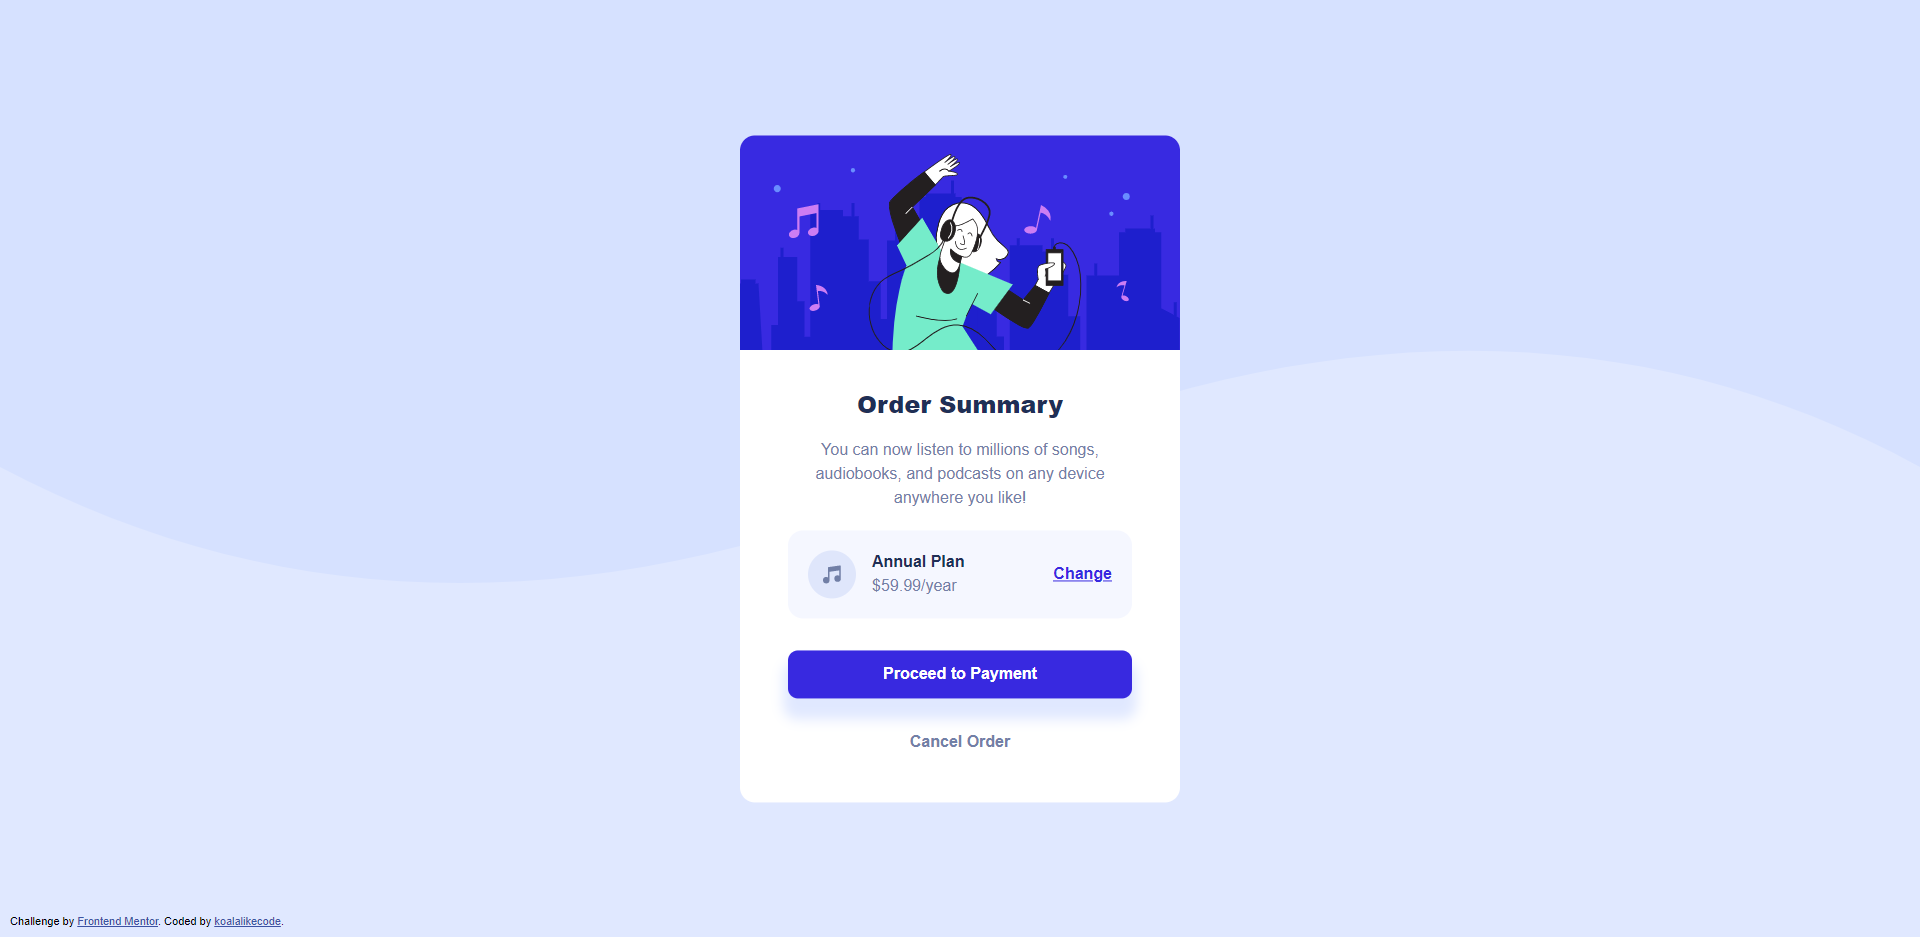
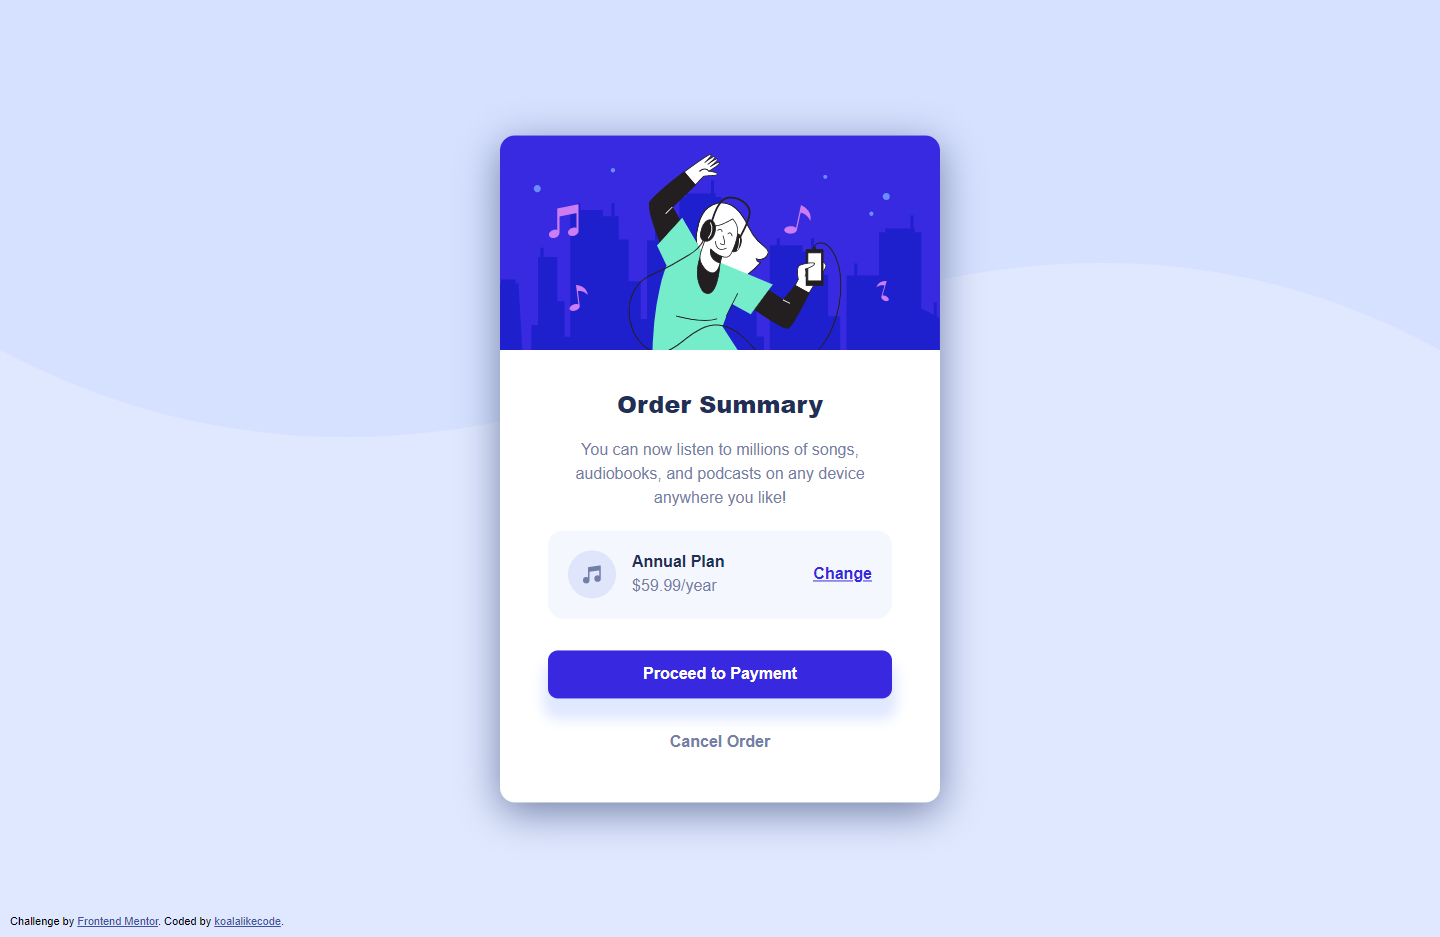
change h2 to h1 and h4 to h2, shadow for container and p changed to a

Changed region(s): [[0.3125, 0.1238, 0.6875, 0.8975], [0.0, 0.9594, 0.1875, 0.9904], [0.4688, 0.7737, 0.5312, 0.8047]]

diff --git a/style.css b/style.css
@@ -35,6 +35,7 @@ body {
   transform: translate(-50%, -50%);
   background-color: var(--White);
   border-radius: 15px;
+  box-shadow: 0px 10px 40px var(--Desaturated-blue);
 }
 
 .container .banner {
@@ -48,11 +49,12 @@ body {
   text-align: center;
   line-height: 1.5;
 }
-h2,
-h4 {
+h1,
+h2 {
   color: var(--Dark-blue);
 }
-.content h2 {
+.content h1 {
+  font-size: 24px;
   font-weight: 900;
   padding-bottom: 16px;
 }
@@ -83,6 +85,11 @@ p {
   flex-grow: 1;
 }
 
+.user-choice .price h2{
+  font-size: 16px;
+  font-weight: 700;
+}
+
 .user-choice .change a {
   color: var(--Bright-blue);
   font-weight: 700;
@@ -101,11 +108,13 @@ p {
 }
 
 .user-confirm .agree-button{
+  display: block;
   padding: 12px 0;
   background-color: var(--Bright-blue);
   color:var(--White);
   border-radius: 10px;
   box-shadow: 0 16px 12px 5px var(--Pale-blue);
+  text-decoration: none;
 }
 
 .user-confirm .agree-button:hover{
@@ -113,7 +122,9 @@ p {
 }
 .user-confirm .reject-button{
   display: inline-block;
+  color:var(--Desaturated-blue);
   margin: 32px 0 16px 0;
+  text-decoration: none;
 }
 
 .user-confirm .reject-button:hover{

diff --git a/index.html b/index.html
@@ -16,7 +16,7 @@
   <main class="container">
     <img class="banner" src="images/illustration-hero.svg" alt="">
     <div class="content">
-      <h2>Order Summary</h2>
+      <h1>Order Summary</h1>
       <p> You can now listen to millions of songs, audiobooks, and podcasts on any 
         device anywhere you like!</p>
     </div>
@@ -27,7 +27,7 @@
       </div>
 
       <div class="price">
-        <h4>Annual Plan</h4>
+        <h2>Annual Plan</h2>
         <p>$59.99/year</p>
       </div>
 
@@ -37,8 +37,8 @@
     </div>
 
     <div class="user-confirm">
-      <p class="agree-button">Proceed to Payment</p>
-      <p class="reject-button">Cancel Order</p>
+      <a class="agree-button" href="#">Proceed to Payment</a>
+      <a class="reject-button" href="#">Cancel Order</a>
     </div>
   </main>
 
